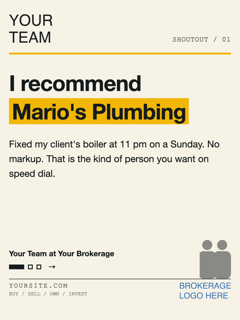
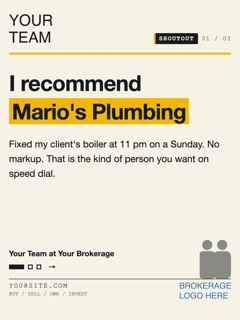
Set the shoutout label as an ink tag with a gold edge and an n of total count

Changed region(s): [[0.6417, 0.0938, 0.875, 0.1562], [0.9333, 0.0938, 0.9625, 0.125]]

diff --git a/render.py b/render.py
@@ -44,7 +44,9 @@ def css(c):
 body{{background:#ccc;font-family:'DM Sans',-apple-system,'Helvetica Neue',sans-serif}}
 .c{{width:{W}px;height:{H}px;position:relative;overflow:hidden;background:{c['ground']};color:{c['ink']}}}
 .tm{{position:absolute;top:60px;left:{MARGIN}px;height:120px}}
-.lane{{position:absolute;top:150px;right:{MARGIN}px;font-family:'Courier New',monospace;font-size:30px;letter-spacing:1px;white-space:nowrap}}
+.lane{{position:absolute;top:140px;right:{MARGIN}px;display:flex;align-items:center;gap:16px;font-family:'Courier New',monospace;font-size:26px;white-space:nowrap}}
+.lane .tag{{background:{c['ink']};color:{c['ground']};padding:8px 16px 8px 14px;border-radius:6px;font-weight:700;letter-spacing:3px;border-left:8px solid {c['accent']}}}
+.lane .num{{letter-spacing:2px;color:{c['muted']}}}
 .gr{{position:absolute;top:222px;left:{MARGIN}px;right:{MARGIN}px;height:8px;background:{c['accent']}}}
 .flow{{position:absolute;top:290px;left:{MARGIN}px;right:110px;bottom:298px;display:flex;flex-direction:column;gap:48px}}
 .flow.who{{top:584px;gap:12px}}
@@ -95,7 +97,7 @@ def build(spec, base):
             if s.get("body"):
                 parts.append(f'<div class="{"sub" if s.get("ask") else "body"}">{esc(s["body"])}</div>')
             mid = '<div class="flow">' + "".join(parts) + "</div>"
-        out.append(f'''<div class="c"><img class="tm" src="{tm}"><div class="lane">{esc(b["lane_label"])} / 0{i}</div>
+        out.append(f'''<div class="c"><img class="tm" src="{tm}"><div class="lane"><span class="tag">{esc(b["lane_label"])}</span><span class="num">0{i} / 0{n}</span></div>
 <div class="gr"></div>{mid}<div class="sig">{esc(b["signature"])}</div><div class="prog">{pips}{arrow}</div>
 <img class="duo" src="{duo}"><div class="hl"></div><div class="site">{esc(b["site"])}</div>
 <div class="bs">{esc(b["tagline"])}</div><img class="os" src="{os_}"></div>''')
